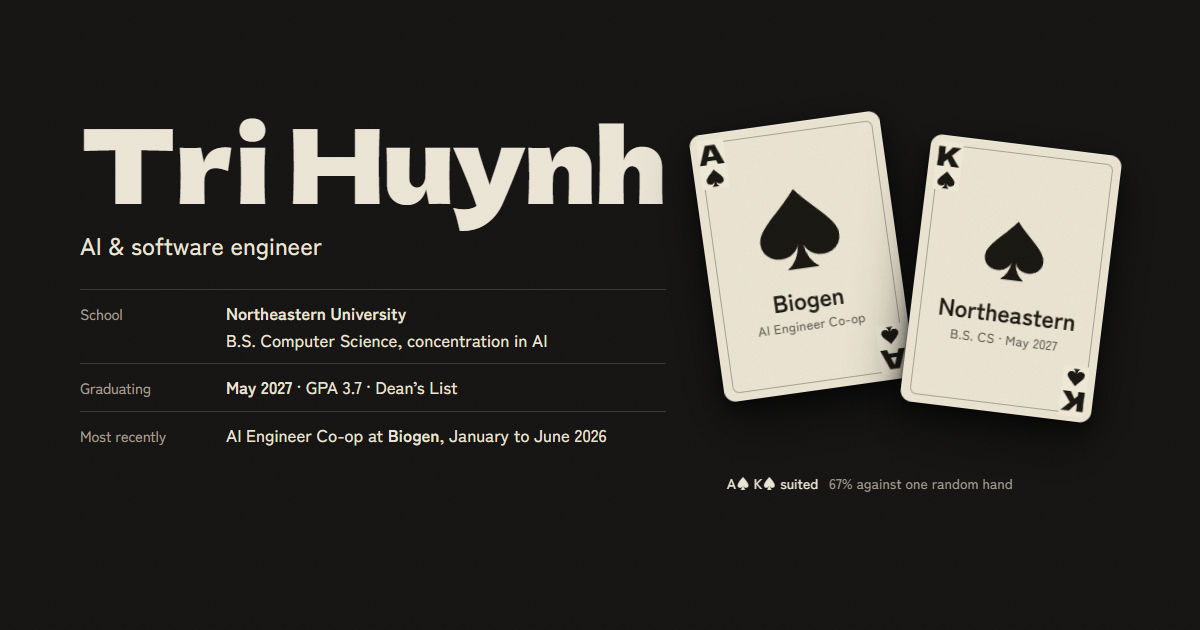
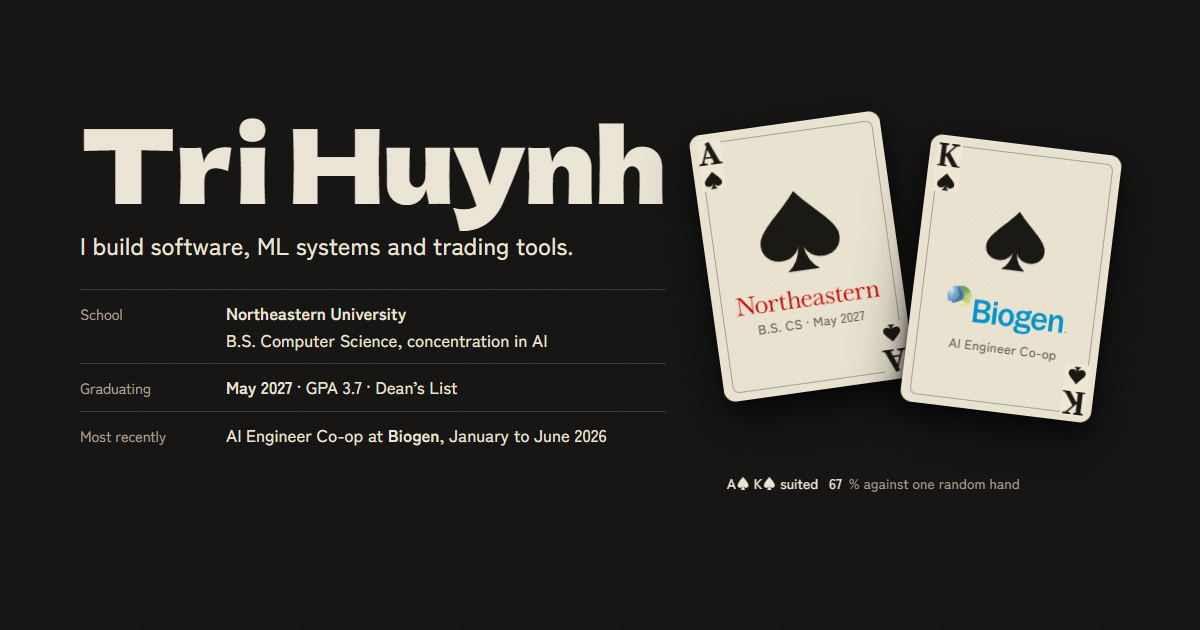
The 67 egg; no single job title in the opening
- Easter egg: wherever a 67% shows (the hero's 67% for A♠ K♠, or a seat's odds at the table), the 6 and the
  7 go up and down in turn like the "six seven" meme: on hover, focus or tap in the hero, once by itself
  when the table's odds land on 67. The terminal's `easteregg` lists this page's eggs (the classic page
  keeps its own list).
- The opening no longer names one job title ("AI & software engineer" read as ruling out SWE, ML, data and
  quant roles): "I build software, ML systems and trading tools", and the roles wanted are listed
  (software engineering, machine learning, data science, quant). Page title, description and the link
  preview image follow.

diff --git a/styles/poker.css b/styles/poker.css
@@ -127,7 +127,7 @@ body:has(.pk-page) { background: var(--pk-bg); }
 .pk-glare { position: absolute; inset: 0; border-radius: inherit; pointer-events: none; z-index: 2; opacity: 0; transition: opacity .35s; background: radial-gradient(circle at var(--gx, 30%) var(--gy, 10%), rgba(255, 255, 255, .55), rgba(255, 255, 255, .12) 32%, transparent 58%); mix-blend-mode: soft-light; }
 .pk-card.is-hero:hover .pk-glare, .pk-card.is-hero:focus-visible .pk-glare { opacity: 1; }
 .pk-hero-note { position: absolute; left: 6%; right: 0; bottom: 0; margin: 0; font: 500 14px/1.5 'Zen Kaku Gothic New', 'Hiragino Sans', system-ui, sans-serif; color: var(--pk-muted); }
-.pk-hero-note span { color: var(--pk-text); margin-right: .5em; }
+.pk-hero-note > span:first-child { color: var(--pk-text); margin-right: .5em; }
 
 /* ---- buttons ------------------------------------------------------------------------------ */
 .pk-row { display: flex; flex-wrap: wrap; gap: 12px; margin: 0; }
@@ -514,6 +514,25 @@ body:has(.pk-page) { background: var(--pk-bg); }
 /* ---- the site-wide widgets on this page --------------------------------------------------- */
 :root:has(.pk-page) .site-term-btn { background-color: var(--pk-raised) !important; color: var(--pk-text) !important; border: 1px solid var(--pk-line); }
 
+/* ---- easter egg: a 67 does the six-seven (the 6 and the 7 go up and down in turn) ------------- */
+.pk-67 { display: inline-flex; cursor: default; }
+.pk-67 i { display: inline-block; font-style: normal; }
+.pk-67.is-go i { color: var(--pk-accent); }
+.pk-67.is-go i:first-child { animation: pk-six 1.35s ease-in-out; }
+.pk-67.is-go i:last-child { animation: pk-seven 1.35s ease-in-out; }
+@keyframes pk-six {
+  0%, 100% { transform: translateY(0) rotate(0); }
+  12%, 37%, 62% { transform: translateY(-42%) rotate(-8deg); }
+  25%, 50%, 75% { transform: translateY(18%) rotate(4deg); }
+  88% { transform: translateY(-14%) rotate(-3deg); }
+}
+@keyframes pk-seven {
+  0%, 100% { transform: translateY(0) rotate(0); }
+  12%, 37%, 62% { transform: translateY(18%) rotate(4deg); }
+  25%, 50%, 75% { transform: translateY(-42%) rotate(8deg); }
+  88% { transform: translateY(6%) rotate(2deg); }
+}
+
 /* ---- phones: the table turns portrait ----------------------------------------------------- */
 .pk-room.is-tall { --pk-cw: 19%; }
 .pk-room.is-tall .pk-table { aspect-ratio: .64 / 1; border-radius: 120px / 160px; transform: rotateX(10deg); }
@@ -576,6 +595,6 @@ body:has(.pk-page) { background: var(--pk-bg); }
 @media (prefers-reduced-motion: reduce) {
   .pk-card-inner, .pk-card, .pk-btn, .pk-table { transition: none; }
   .pk-card.is-glow .pk-face::after { animation: none; display: none; }
-  .pk-slot .pk-card.is-up .pk-card-inner, .pk-deck.is-shuffling span, .bc.is-up, .bc.is-up .bc-shade { animation: none; }
+  .pk-slot .pk-card.is-up .pk-card-inner, .pk-deck.is-shuffling span, .bc.is-up, .bc.is-up .bc-shade, .pk-67.is-go i { animation: none; }
   .bc, .bc.is-up, .pk-odds-bar i { transition: none; }
 }

diff --git a/components/table/PokerTable.jsx b/components/table/PokerTable.jsx
@@ -4,6 +4,7 @@ import { useRouter } from 'next/router';
 import BendCard, { CardDefs } from './BendCard';
 import { CardBack } from './CardArt';
 import { ChipStack, ChipTop } from './Chips';
+import Pct from './SixSeven';
 import { card as C, cardText, evaluate, handName, odds as calcOdds, shuffled, rankOf, suitOf } from '../../lib/holdem';
 
 // A real hand of heads-up hold'em against Tri, who holds A♠ K♠ every hand (it is his table). The visitor gets
@@ -372,7 +373,7 @@ export default function PokerTable() {
             {ready && live && deal && !home && ['tri', 'you'].map((seat) => (
               <div key={seat} className={`pk-tag${done && result.winner === seat ? ' is-win' : ''}`} style={pct(L.tag[seat])}>
                 <b>{seat === 'tri' ? 'Tri' : 'You'}</b>
-                <span className="pk-tag-odds">{done ? (result.winner === seat ? 'Winner' : result.winner === 'split' ? 'Split' : '–') : showOdds ? pctOf(seat === 'tri' ? o.b : o.a) : '…'}</span>
+                <span className="pk-tag-odds">{done ? (result.winner === seat ? 'Winner' : result.winner === 'split' ? 'Split' : '–') : showOdds ? <Pct value={(seat === 'tri' ? o.b : o.a) * 100} auto /> : '…'}</span>
                 {(up[seat === 'tri' ? TRI[0] : deal.you[0]] || done) && <em>{made(seat === 'tri' ? TRI : deal.you)}</em>}
               </div>
             ))}
@@ -401,9 +402,9 @@ export default function PokerTable() {
               <i className="tri" style={{ width: showOdds ? `${o.b * 100}%` : '50%' }} />
             </span>
             <span className="pk-odds-k">
-              <span>You {showOdds ? pctOf(o.a) : '…'}</span>
+              <span>You {showOdds ? <Pct value={o.a * 100} auto /> : '…'}</span>
               {showOdds && o.tie >= 0.005 && <span>Tie {pctOf(o.tie)}</span>}
-              <span>Tri {showOdds ? pctOf(o.b) : '…'}</span>
+              <span>Tri {showOdds ? <Pct value={o.b * 100} auto /> : '…'}</span>
             </span>
           </div>
           {played > 0 && <p className="pk-score">Hands won: you {score.you}, Tri {score.tri}{score.split ? `, split ${score.split}` : ''}</p>}

diff --git a/pages/index.jsx b/pages/index.jsx
@@ -11,7 +11,7 @@ import FloatingTerminalButton from '../components/FloatingTerminalButton';
 import { HOLE, BOARD, CONTACT, PROFILE, STACK } from '../data/hand';
 
 const URL = 'https://thuynh-91.github.io/tri-huynh-portfolio/';
-const DESC = 'Tri Huynh: AI and software engineer, Northeastern University, graduating May 2027. Projects in AI, full-stack and trading systems.';
+const DESC = 'Tri Huynh: computer science at Northeastern University, graduating May 2027. Software, machine learning and trading systems; looking for full-time roles in software, ML, data science and quant.';
 const RED = /[♦♥]/;
 
 function Links({ basePath }) {
@@ -83,12 +83,12 @@ export default function Home() {
   return (
     <>
       <Head>
-        <title>Tri Huynh · AI &amp; software engineer</title>
+        <title>Tri Huynh · Northeastern CS &apos;27</title>
         <meta name="description" content={DESC} />
         <link rel="canonical" href={URL} />
         <meta property="og:type" content="website" />
         <meta property="og:url" content={URL} />
-        <meta property="og:title" content="Tri Huynh · AI & software engineer" />
+        <meta property="og:title" content="Tri Huynh · Northeastern CS '27" />
         <meta property="og:description" content={DESC} />
         <meta property="og:image" content={`${URL}images/og.png`} />
         <meta name="twitter:card" content="summary_large_image" />

diff --git a/components/InteractiveTerminal.jsx b/components/InteractiveTerminal.jsx
@@ -201,7 +201,7 @@ export default function InteractiveTerminal({ isOpen, onClose }) {
     },
     easteregg: {
       description: 'Reveal the hidden stuff',
-      action: () => [
+      action: () => (typeof window !== 'undefined' && window.location.pathname.includes('/classic') ? [
         { type: 'output', text: '🥚 EASTER EGG HUNT 🥚' },
         { type: 'output', text: '' },
         { type: 'output', text: '1. A tiny 🕵  is peeking from the left edge, click them' },
@@ -209,7 +209,15 @@ export default function InteractiveTerminal({ isOpen, onClose }) {
         { type: 'output', text: '2. Secret terminal commands: matrix, sudo' },
         { type: 'output', text: '' },
         { type: 'output', text: 'Happy hunting! 🎉' },
-      ]
+      ] : [
+        { type: 'output', text: 'Hidden at the table:' },
+        { type: 'output', text: '' },
+        { type: 'output', text: '1. The deck is stacked. Count how often Tri is dealt A♠ K♠.' },
+        { type: 'output', text: '2. Shuffle a few times. Something that is not in this game falls out.' },
+        { type: 'output', text: '3. Click the bare felt.' },
+        { type: 'output', text: '4. Find a 67.' },
+        { type: 'output', text: '5. Secret terminal commands: matrix, sudo' },
+      ])
     },
     sudo: {
       description: 'Run with superuser privileges',

diff --git a/components/table/SixSeven.jsx b/components/table/SixSeven.jsx
@@ -1,0 +1,25 @@
+import { useEffect, useRef, useState } from 'react';
+
+// An easter egg: wherever the page prints 67%, the 6 and the 7 go up and down in turn, like the hands in the
+// "six seven" meme. Hover, focus or tap a 67 to set it off; on the table, odds that land on 67% do it once
+// by themselves. Any other number prints as it is.
+export function SixSeven({ auto = false }) {
+  const [go, setGo] = useState(0);
+  const still = useRef(false);
+  useEffect(() => {
+    still.current = window.matchMedia('(prefers-reduced-motion: reduce)').matches;
+    if (auto && !still.current) setGo(1);
+  }, [auto]);
+  const play = () => { if (!still.current) setGo((n) => n + 1); };
+  return (
+    <span className={`pk-67${go ? ' is-go' : ''}`} onPointerEnter={play} onClick={play} onFocus={play} aria-label="67">
+      <i key={`a${go}`} aria-hidden="true">6</i><i key={`b${go}`} aria-hidden="true">7</i>
+    </span>
+  );
+}
+
+// a percentage, with the 67 egg when it is 67
+export default function Pct({ value, auto = false }) {
+  const v = Math.round(value);
+  return v === 67 ? <><SixSeven auto={auto} />%</> : <>{v}%</>;
+}

diff --git a/components/table/HeroHand.jsx b/components/table/HeroHand.jsx
@@ -1,5 +1,6 @@
 import { useEffect, useRef } from 'react';
 import PlayingCard from './PlayingCard';
+import Pct from './SixSeven';
 import { HOLE, EQUITY } from '../../data/hand';
 
 // The two hole cards in the hero. They lean toward the pointer, a highlight slides across the face under it,
@@ -36,7 +37,7 @@ export default function HeroHand({ onOpen }) {
     <div className="pk-hero-cards" ref={ref}>
       <div className="pk-fan a"><PlayingCard card={HOLE[0]} faceUp hero onOpen={onOpen} /></div>
       <div className="pk-fan b"><PlayingCard card={HOLE[1]} faceUp hero onOpen={onOpen} /></div>
-      <p className="pk-hero-note"><span>A♠ K♠ suited</span> {EQUITY[0]}% against one random hand</p>
+      <p className="pk-hero-note"><span>A♠ K♠ suited</span> <Pct value={EQUITY[0]} /> against one random hand</p>
     </div>
   );
 }

diff --git a/data/hand.js b/data/hand.js
@@ -5,13 +5,13 @@
 
 export const PROFILE = {
   name: 'Tri Huynh',
-  role: 'AI & software engineer',
+  role: 'I build software, ML systems and trading tools.',
   school: 'Northeastern University',
   degree: 'B.S. Computer Science, concentration in AI',
   grad: 'May 2027',
   standing: 'GPA 3.7 · Dean’s List',
   place: 'Boston, MA · open to relocating · U.S. citizen',
-  seeking: 'Full-time AI and software engineering roles from May 2027',
+  seeking: 'Full-time roles from May 2027 in software engineering, machine learning, data science and quant',
   courses: ['Engineering LLM-Integrated Systems', 'Machine Learning', 'Distributed Systems', 'Algorithms & Data'],
 };
 
